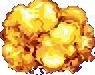
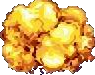
Cleaneed up explosion image and still figuring out error for apartment

diff --git a/src/city/gui/PersonGui.java b/src/city/gui/PersonGui.java
@@ -36,17 +36,16 @@ public class PersonGui implements Gui {
 	public enum CurrentAction {Cooking, Eating, Transition, Idle, Deciding, Leaving, Sleeping};
 	CurrentAction currentAction = CurrentAction.Idle;
 	public PersonGui(PersonAgent agent) {
-		/*
+
 		String address = agent.getAddress();
 		System.out.println(agent.getAddress());
 		
 		apartmentLetter = ApartmentHelper.sharedInstance().getApartmentLetter(address);
 		xMult = ApartmentHelper.sharedInstance().getXMultiplier(address) * 212;
 		yMult = ApartmentHelper.sharedInstance().getYMultiplier(address) * 88;
-		*/
-		
+
 		//HOME
-		//if(address.toLowerCase().contains("house")) {
+		if(address.toLowerCase().contains("house")) {
 			xBed = 5;
 			yBed = 135;
 			xKitchen = 695;
@@ -71,7 +70,7 @@ public class PersonGui implements Gui {
 	        catch(IOException e) {
 	        	System.out.println("Error w/ Person assets");
 	        }
-		//}
+		}
 		//APARTMENT
 		/*
 		else if(address.toLowerCase().contains("apartment")) {
